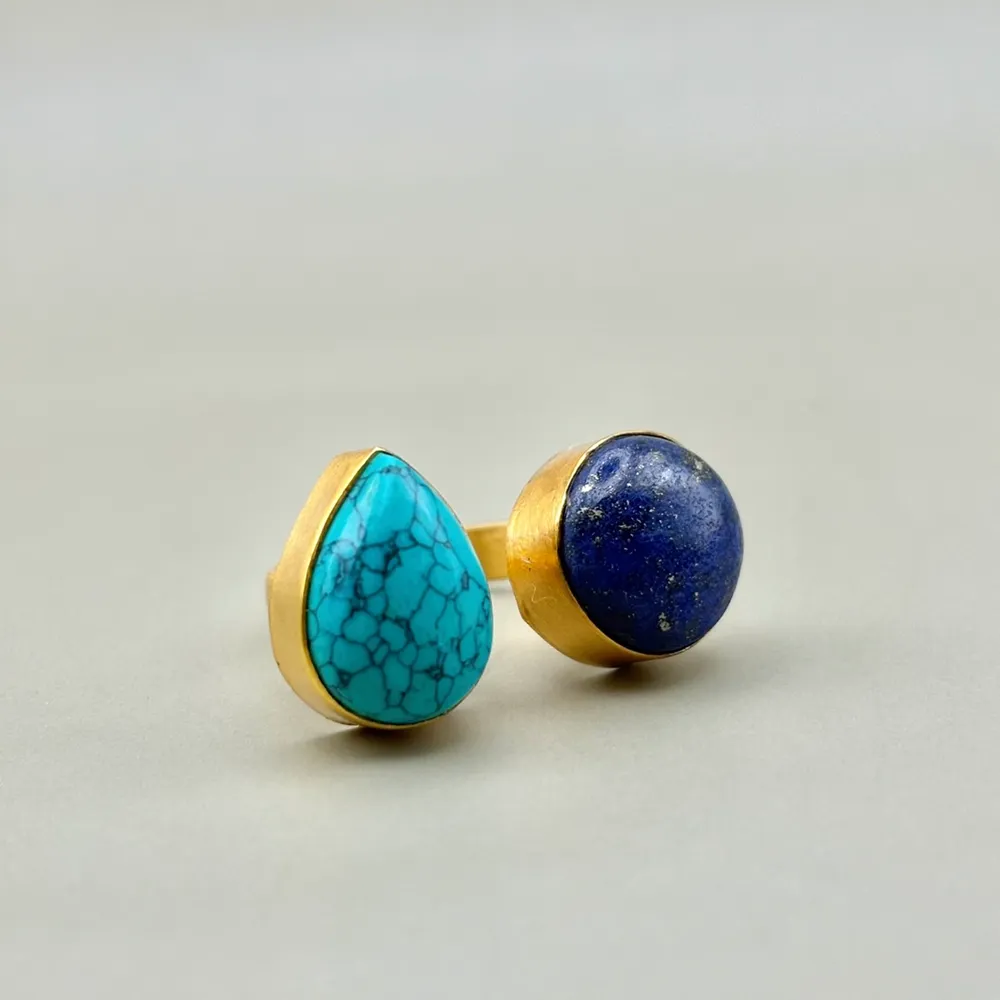
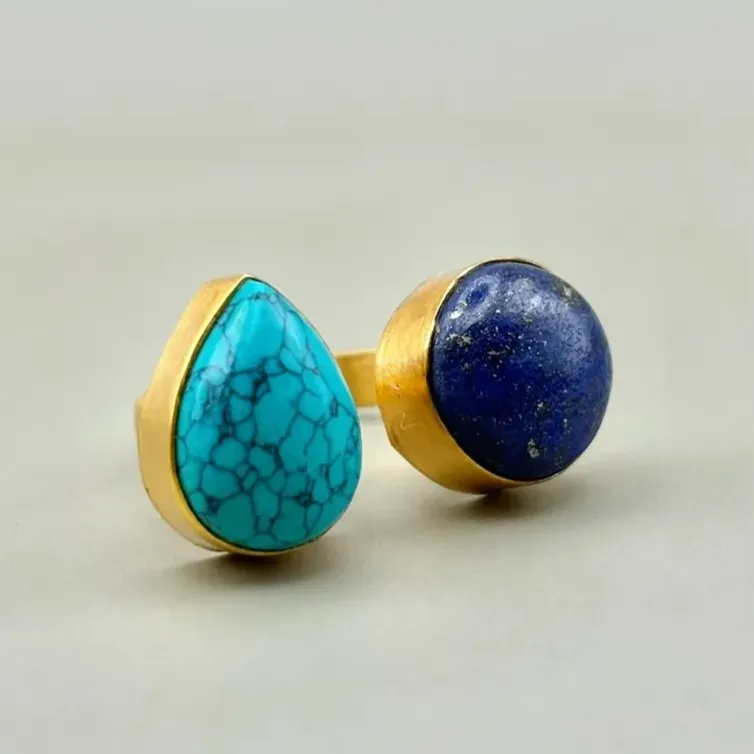
新しいHTMLファイルを追加

Changed region(s): [[0.1525, 0.3355, 0.8236, 0.8236]]

diff --git a/index.html b/index.html
@@ -103,7 +103,7 @@
 
             <figure>
                 <a href="onlineshop.html">
-                    <img loading="lazy" src="images/IMG_0005.JPG" alt="画像6">
+                    <img loading="lazy" src="images/IMG_0005.webp" alt="画像6">
                 </a>
             </figure>
 

diff --git a/contact.html b/contact.html
@@ -5,7 +5,7 @@
     <meta name="viewport" content="width=device-width, initial-scale=1.0">
     <link rel="stylesheet" href="stylesheet.css">
     
-    <title>Ayra - お問い合わせ -</title>
+    <title>Ayra - Contact -</title>
     
     <link rel="stylesheet" href="stylesheet.css">
 

diff --git a/about.html b/about.html
@@ -5,7 +5,7 @@
     <meta name="viewport" content="width=device-width, initial-scale=1.0">
     <link rel="stylesheet" href="stylesheet.css">
     
-    <title>Ayra</title>
+    <title>Ayra - About -</title>
 
   </head>
   

diff --git a/custom.html b/custom.html
@@ -5,7 +5,7 @@
     <meta charset="utf-8">
     <link rel="stylesheet" href="stylesheet.css">
     <meta charset="utf-8">
-    <title>Ayra - カスタマイズ -</title>
+    <title>Ayra - Custom -</title>
     
   </head>
 

diff --git a/onlineshop.html b/onlineshop.html
@@ -5,7 +5,7 @@
     <meta charset="utf-8">
     <link rel="stylesheet" href="stylesheet.css">
     
-    <title>Ayra</title>
+    <title>Ayra - Online shop -</title>
   </head>
 
   <body>
